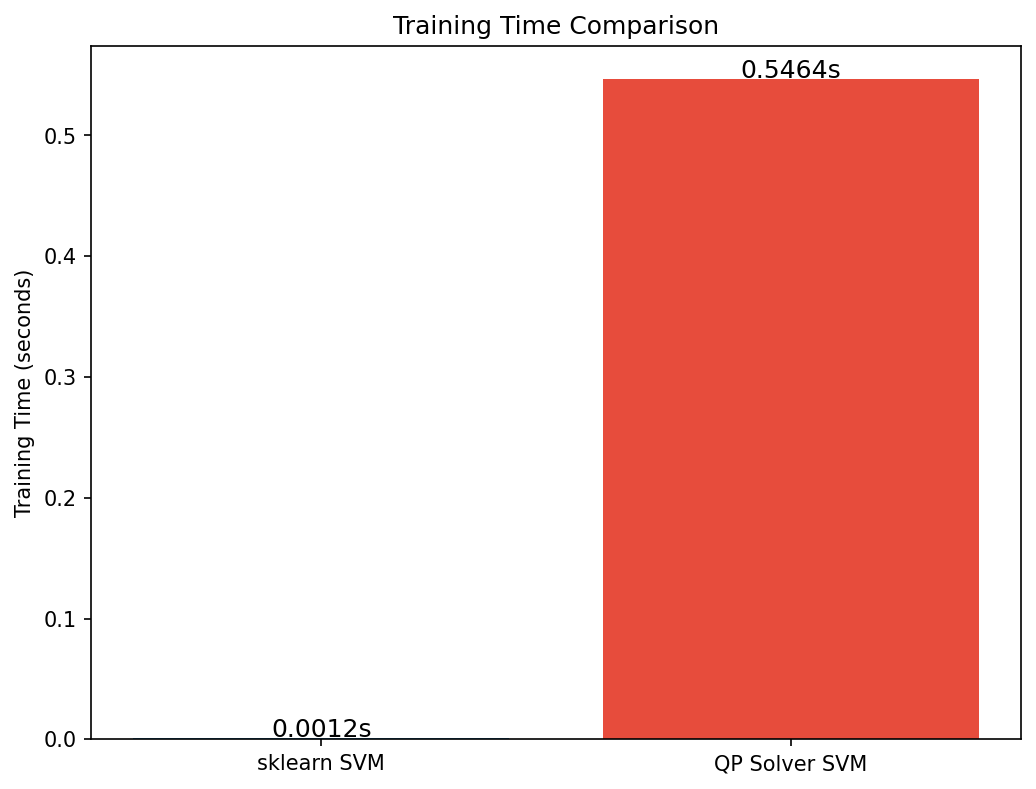
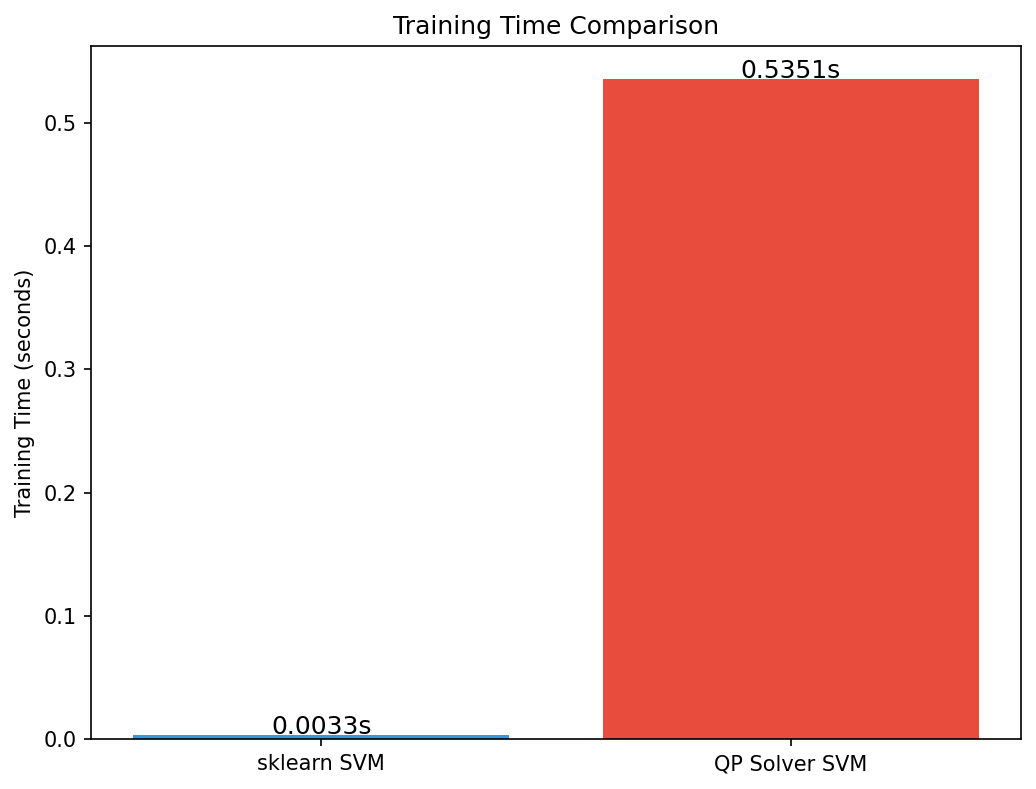
Add .venv setup with .gitkeep and update README
- Added .venv/.gitkeep with virtual environment setup instructions
- Updated .gitignore to track .venv/.gitkeep while ignoring venv contents
- Enhanced README with MANDATORY virtual environment section
- Updated project structure to show .venv folder
- Re-ran all 3 test cases with fresh results

Virtual Environment is now properly documented as per PROJECT_GUIDELINES.

🤖 Generated with [Claude Code](https://claude.com/claude-code)

diff --git a/README.md b/README.md
@@ -130,22 +130,54 @@ seaborn>=0.12.0
 
 ---
 
-## Virtual Environment Setup (UV)
+## Virtual Environment Setup (UV) - MANDATORY
+
+> **IMPORTANT:** This project uses UV for virtual environment management.
+> UV is 10-100x faster than pip and provides better dependency resolution.
 
 ### Windows (PowerShell)
 ```powershell
+# Navigate to project directory
 cd C:\path\to\L23
+
+# Create virtual environment
 uv venv
+
+# Activate virtual environment (you should see (.venv) in your prompt)
 .venv\Scripts\activate
+
+# Install all dependencies
 uv pip install -r requirements.txt
+
+# Verify installation
+python -c "import sklearn, cvxopt, numpy, pandas; print('All dependencies OK')"
 ```
 
-### Linux/macOS
+### Linux/macOS (or WSL)
 ```bash
+# Navigate to project directory
 cd /path/to/L23
+
+# Create virtual environment
 uv venv
+
+# Activate virtual environment (you should see (.venv) in your prompt)
 source .venv/bin/activate
+
+# Install all dependencies
 uv pip install -r requirements.txt
+
+# Verify installation
+python -c "import sklearn, cvxopt, numpy, pandas; print('All dependencies OK')"
+```
+
+### Installing UV (if not already installed)
+```bash
+# Linux/macOS
+curl -LsSf https://astral.sh/uv/install.sh | sh
+
+# Windows PowerShell
+powershell -c "irm https://astral.sh/uv/install.ps1 | iex"
 ```
 
 ---
@@ -183,6 +215,8 @@ L23/
 ├── requirements.txt           # Dependencies
 ├── README.md                  # This file
 ├── .gitignore
+├── .venv/                     # Virtual environment (UV)
+│   └── .gitkeep               # Setup instructions
 ├── Data/
 │   └── Iris-Species/
 │       └── Iris.csv           # Dataset (150 samples)
